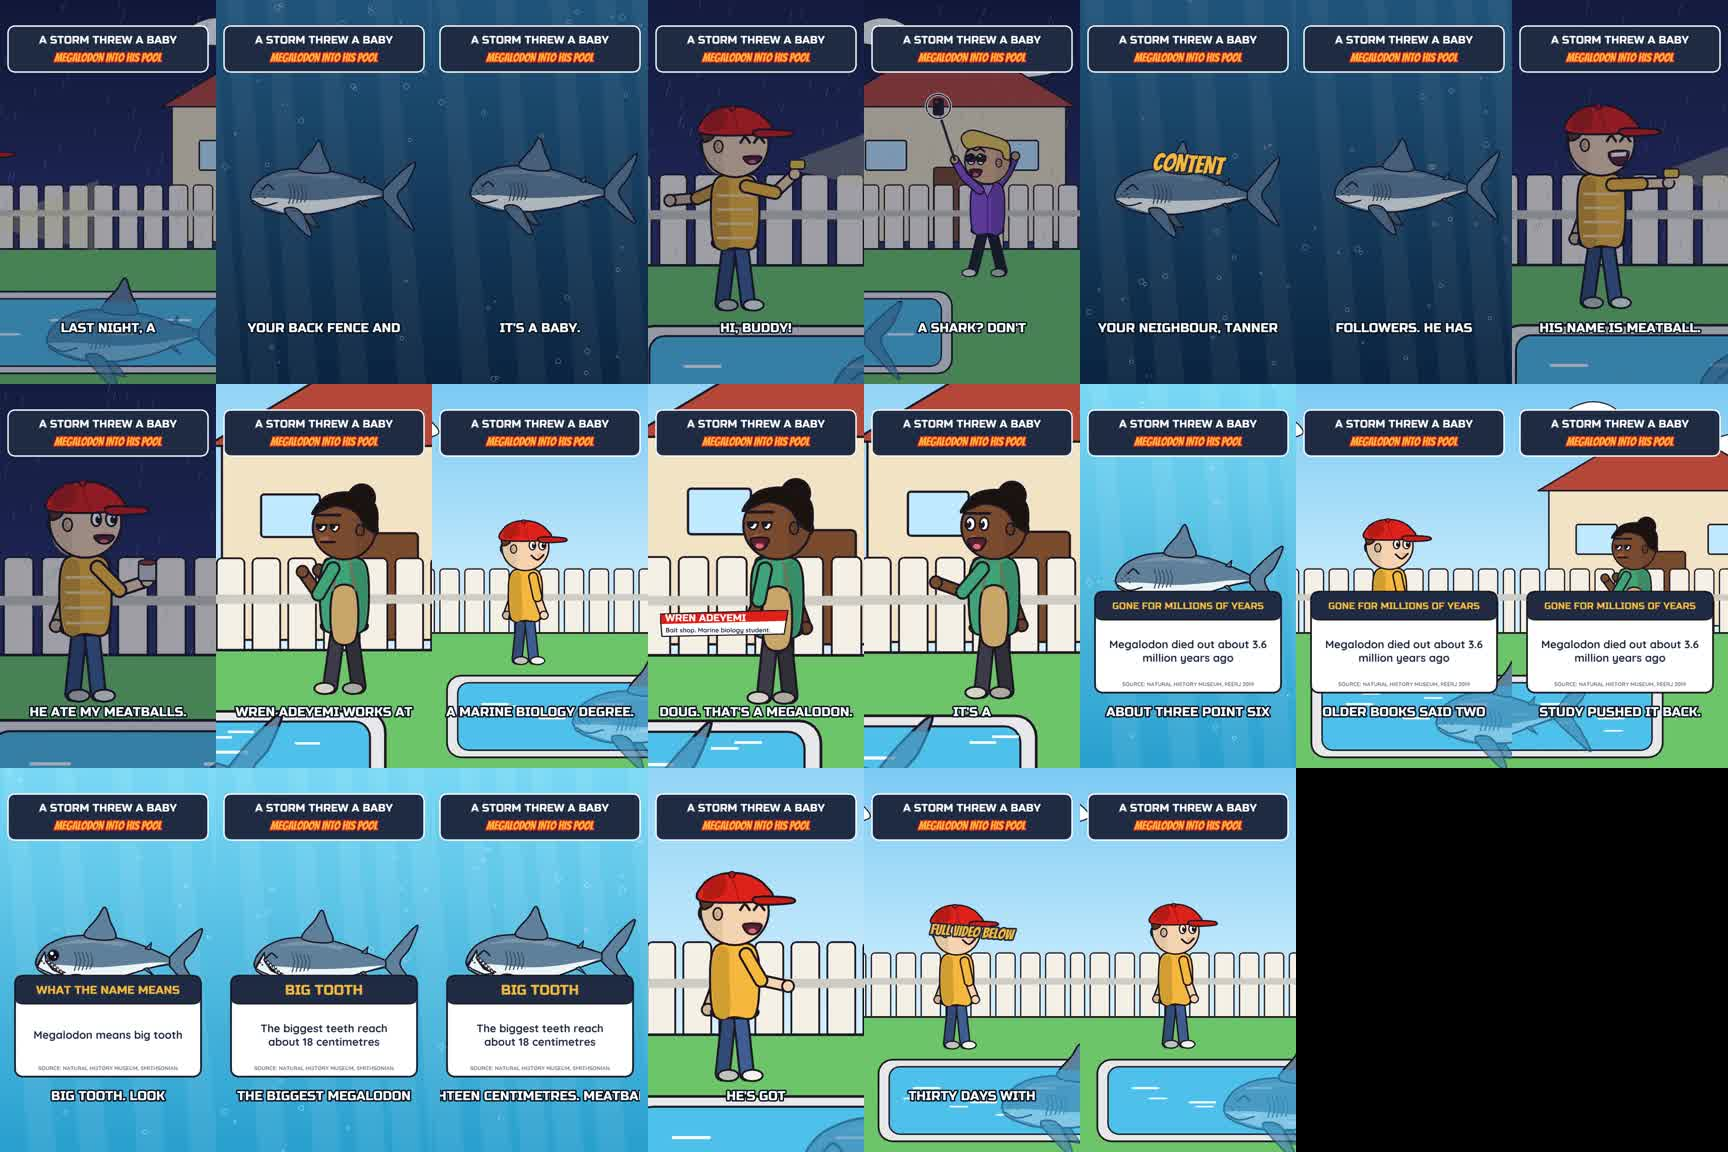
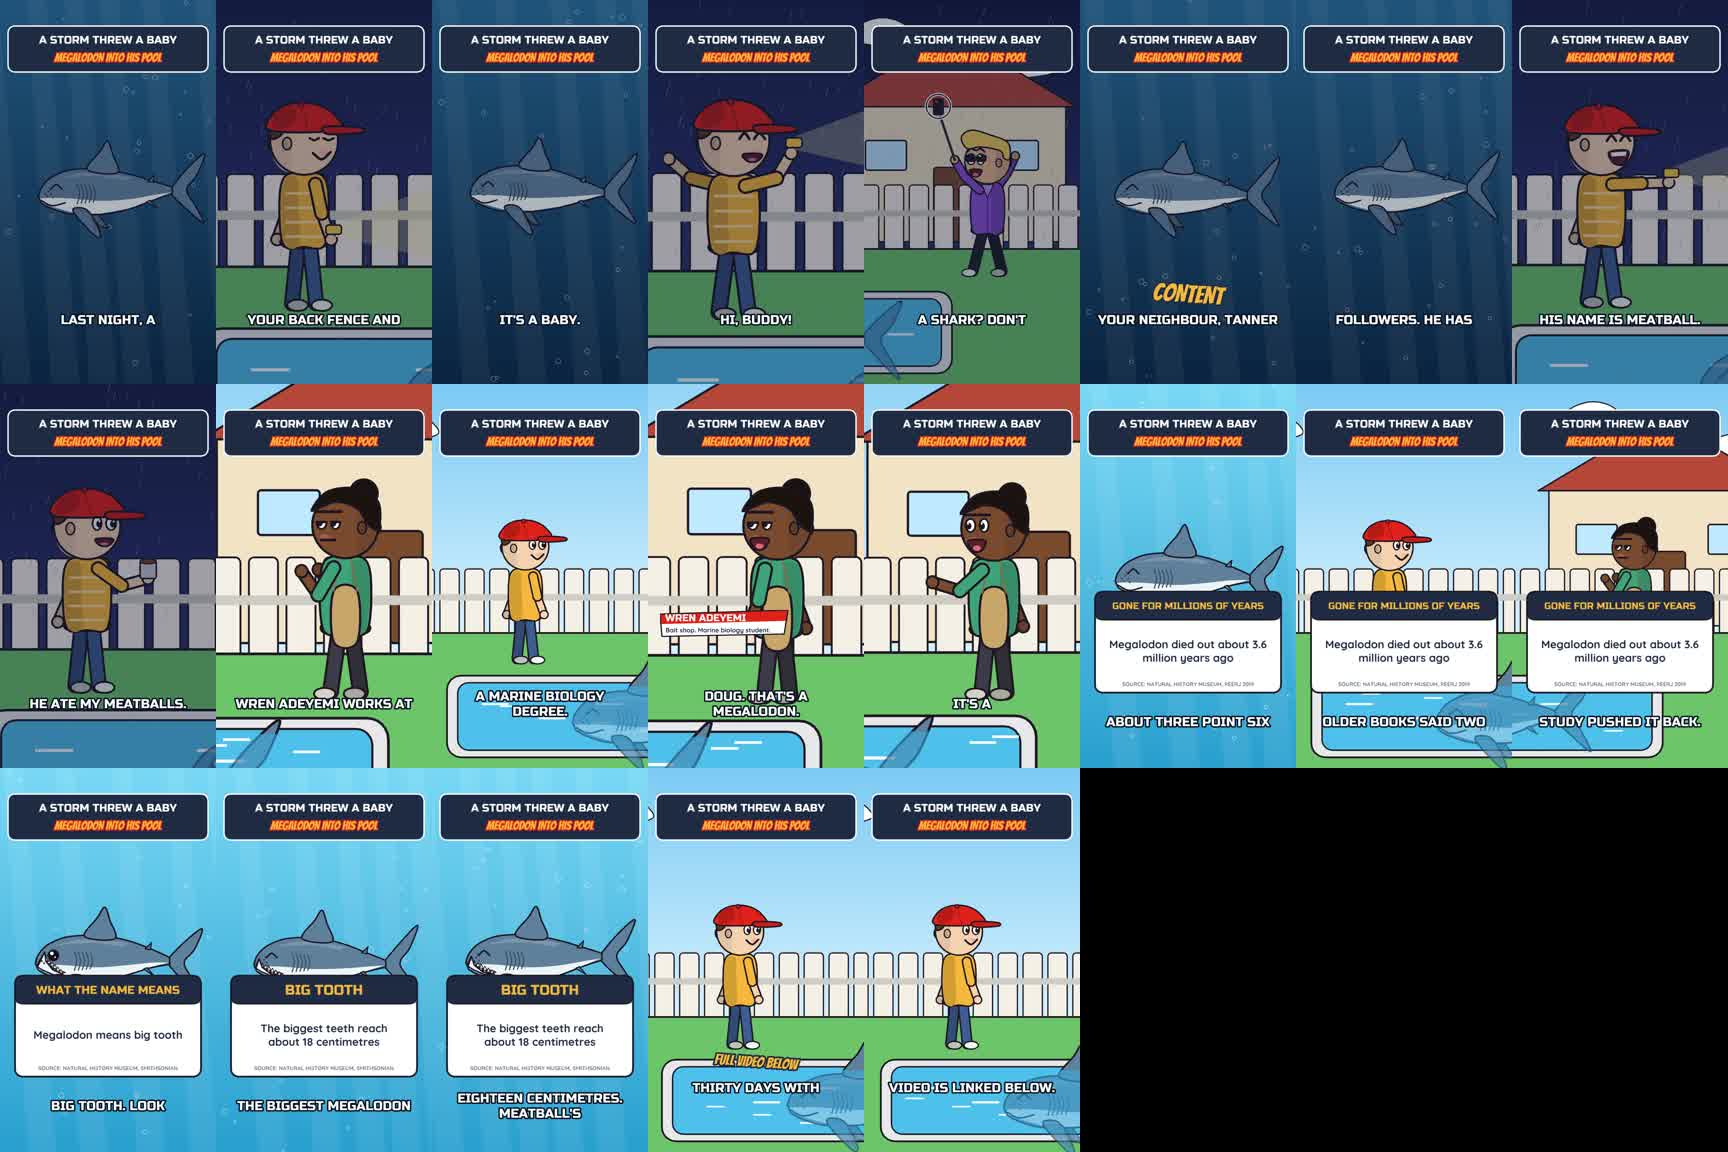
claude: Shorts fixes from review (captions clear of cards, trims and per-Short overrides), w01 Shorts uploaded via 059

diff --git a/studio/whatif_shorts.py b/studio/whatif_shorts.py
@@ -29,6 +29,26 @@ def _scene_blocks(text: str) -> tuple[str, dict]:
     return head, blocks
 
 
+def _trim(block: str, ref: str) -> str:
+    """'03' keeps the whole scene; '03:0-6' keeps spoken lines 0 to 6 (with their CARD, WORD and stage lines)."""
+    if ":" not in ref:
+        return block
+    a, b = [int(x) for x in ref.split(":")[1].split("-")]
+    out, idx, pending = [], -1, []
+    for ln in block.splitlines():
+        if ln.startswith("## SCENE"):
+            out.append(ln)
+            continue
+        if re.match(r"^[A-Z][A-Z0-9_]*\s*(\[[^\]]*\])?\s*:", ln) and not ln.startswith(("CARD:", "WORD:")):
+            idx += 1
+            if a <= idx <= b:
+                out += pending + [ln]
+            pending = []
+            continue
+        pending.append(ln)
+    return "\n".join(out) + "\n"
+
+
 def build(pdir: Path, only: list[str] | None = None):
     plan = json.loads((pdir / "shorts_plan.json").read_text(encoding="utf-8"))
     text = (pdir / "script.md").read_text(encoding="utf-8")
@@ -39,12 +59,12 @@ def build(pdir: Path, only: list[str] | None = None):
             continue
         d = pdir / "shorts" / sh["id"]
         d.mkdir(parents=True, exist_ok=True)
-        first, last = sh["scenes"][0], sh["scenes"][-1]
+        first, last = sh["scenes"][0].split(":")[0], sh["scenes"][-1].split(":")[0]
         set_of = lambda n: re.search(r"set:\s*([a-z0-9_]+)", blocks[n]).group(1)
         parts = [head.rstrip() + "\n\n"]
         if sh.get("hook"):
             parts.append(f"## SCENE 00 | set: {set_of(first)} | day: -\nNARRATOR: {sh['hook']}\n\n")
-        parts += [blocks[n] + "\n" for n in sh["scenes"]]
+        parts += [_trim(blocks[n.split(":")[0]], n) + "\n" for n in sh["scenes"]]
         parts.append(f"## SCENE 99 | set: {set_of(last)} | day: -\nNARRATOR: {sh['outro']}\n")
         (d / "script.md").write_text("".join(parts), encoding="utf-8")
         st = json.loads(json.dumps(staging))
@@ -56,6 +76,10 @@ def build(pdir: Path, only: list[str] | None = None):
         st["scenes"]["00"] = dict(base_first, lines={"0": {"shots": ["megclose", "wide"] if "meg" in base_first else ["wide"]}})
         st["scenes"]["99"] = dict(base_last, lines={"0": {"word": "FULL VIDEO BELOW", "shots": ["wide"]}})
         st["short"] = {"title": sh["title"]}
+        for scn, lines in (sh.get("overrides") or {}).items():   # per-Short shot choices (open on the hook image)
+            st["scenes"].setdefault(scn, {}).setdefault("lines", {})
+            for li, ov in lines.items():
+                st["scenes"][scn]["lines"].setdefault(li, {}).update(ov)
         (d / "staging.json").write_text(json.dumps(st, indent=1), encoding="utf-8")
         for f in ("voices.json", "cast_looks.json"):
             shutil.copy2(pdir / f, d / f)

diff --git a/studio/whatif.py b/studio/whatif.py
@@ -775,10 +775,15 @@ def draw_overlays(frame, spec, t_abs, ctx, ovc, state):
             n = max(1, math.ceil(len(words) / 4))
             k = min(n - 1, int((t_abs - line["start"]) / max(0.3, line["dur"]) * n))
             chunk = " ".join(words[k * len(words) // n:(k + 1) * len(words) // n]).upper()
+            dd = ImageDraw.Draw(Image.new("RGB", (10, 10)))
+            rows = _wrap(chunk, T.font(64, "RussoOne-Regular"), 900, dd)[:2]   # never wider than the frame
             def cap(p):
-                p.text(500, 70, chunk, 64, "#ffffff", "RussoOne-Regular", stroke=7, stroke_color="#0b1222")
-            img = _ov_sprite("cap_" + chunk, cap, 1000, 140, ovc)
-            T.paste(frame, img, (img.width / 2, img.height / 2), (W / 2, 1640))
+                for r_i, row in enumerate(rows):
+                    p.text(500, 70 + (r_i - (len(rows) - 1) / 2) * 76, row, 64, "#ffffff", "RussoOne-Regular",
+                           stroke=7, stroke_color="#0b1222")
+            img = _ov_sprite("cap_" + chunk, cap, 1000, 220, ovc)
+            card_now = state.get("card") and state["card"]["t1"] > t_abs >= state["card"]["t0"]
+            T.paste(frame, img, (img.width / 2, img.height / 2), (W / 2, 1730 if card_now else 1640))  # clear of the card
     # DAY badge
     day = spec.get("day")
     if short and vertical():
@@ -853,8 +858,9 @@ def draw_overlays(frame, spec, t_abs, ctx, ovc, state):
         wob = math.sin(tin * 18) * 2.5 * max(0, 1 - tin / 0.6)
         cyw = 860 if not state.get("card") or not (state["card"]["t1"] > t_abs >= state["card"]["t0"]) else 930
         cxw = 960 if cyw == 860 else 700
-        if vertical():
-            cxw, cyw = W / 2, 820
+        if vertical():   # keep kinetic words off faces: low band, or high band when a card is up
+            card_up = state.get("card") and state["card"]["t1"] > t_abs >= state["card"]["t0"]
+            cxw, cyw = W / 2, (480 if card_up else 1470)
         _paste_scaled(frame, img, cxw, cyw, (0.35 + 0.65 * sc) * (0.72 if vertical() else 1), rot=-4 + wob)
     # title drop
     tt = state.get("title")

diff --git a/pilots/w01-pet-megalodon/video_review.md b/pilots/w01-pet-megalodon/video_review.md
@@ -316,3 +316,92 @@ Nothing new broke in the frames checked. Cuts are 24.2 a minute, inside the 20 t
 ### Verdict
 
 **Ready for owner review, not ready to upload.** No scene is broken any more, and every story beat the narration names is now on screen. What remains is polish: cards covering Wren in five wide shots, the flashback sand layer, edge crops and one-angle backyard coverage. That polish keeps it at 3.5 rather than DOOMPERK's level, and it should be fixed in the same pass as any owner notes before upload.
+
+---
+
+## Shorts (2026-11-27)
+
+Three native 9:16 Shorts cut from w01. Judged from each short's `sheet.jpg` (one frame every 2.5 s), 4 full-size frames per short from `build/final.mp4`, each `script.md` and `build/lines.json`, and `shorts_plan.json`. All three are 1080x1920 (ffprobe), and run 54.3 s, 49.9 s and 54.9 s. Audio was not heard. Channel rule: a complete moment that ends on its payoff, never a cliffhanger, then points to the full video.
+
+| Criterion | short01 | short02 | short03 |
+|---|---|---|---|
+| Hook, first 2 s | 2.5 | 3 | 3 |
+| Readability at phone size | 3.5 | 3 | 3.5 |
+| Framing | 3.5 | 3.5 | 3.5 |
+| Payoff ending | 2.5 | 4 | 4.5 |
+| Title strength | 4 | 3.5 | 4.5 |
+| **Average** | **3.2** | **3.4** | **3.8** |
+| **Upload** | **NO-GO** | **NO-GO until fixed** | **GO** |
+
+All three get the basics right:
+- The two-line title band at the top reads at phone size.
+- Captions are bold white caps inside the safe area, and the science cards are readable.
+- Night scenes are graded dark.
+- Each short ends with a spoken pointer to the full video.
+
+### short01: "A Storm Threw a Baby MEGALODON Into His Pool" (scenes 01 and 03)
+
+- **Hook (2.5):** at 0.3 s the frame is a dark rainy yard with the shark faint in the pool, and Doug off the left edge (only his cap brim shows). No caption until about 1.5 s. The title band does all the work; nothing moves or surprises in the first 2 s.
+- **Readability (3.5):**
+  - The caption at about 47.5 s, "IHTEEN CENTIMETRES. MEATBA...", runs off both sides of the frame.
+  - The FULL VIDEO BELOW word sits on Doug's face at about 52 s.
+- **Framing (3.5):** the cast is fine apart from the 0.3 s opening.
+- **Payoff (2.5):** the strongest joke ("He ate my meatballs.", 20.5 s) lands at the 40% mark. The short then spends 25 s on science cards and ends on "He's got a lovely smile." (48.0 s), which is soft, not a payoff.
+- **Title (4):** clear, visual and searchable.
+- **Top fix:** recut to end on a payoff, for example storm, Tanner, "It's a type of extinct.", BIG TOOTH and "Meatball's are smaller. For now." over a grin close-up. Open on the shark close-up instead of the dark wide. Wrap the 47.5 s caption.
+
+### short02: "His Pet MEGALODON Ate a Watermelon in One Bite" (scenes 09 and 10)
+
+- **Hook (3):** the first frame is a calm underwater shark close-up with no caption (0.3 s). The spoken hook ("Your pet megalodon is nine days old. Your neighbour wants it on a livestream.") is good, but the watermelon does not appear until about 12 s.
+- **Readability (3):**
+  - The countdown caption at 13 s, "...NE WATERMELON. THREE, TW...", is cut off on both sides, on the most important line of the short.
+  - FULL VIDEO BELOW sits on Doug's face at 48.5 s.
+- **Framing (3.5):** Doug and Wren are cut at the side edges in the teeth scene (about 30 to 48 s).
+- **Payoff (4):** CRUNCH at about 15 s, then "He thought it was the moon.", then the teeth gag ends on a real punchline: "For the first time in his career, Tanner's advert is completely true." (43.0 s).
+- **Title (3.5):** clear, and it promises what is shown. It gives away the bite, so it relies on the visual. "Pet MEGALODON" echoes DOOMPERK's "PET Tornado", which the long-form packaging retired.
+- **Top fix:** cap caption width and wrap long lines (the 13 s line). Open on the watermelon at the shark's mouth, so the first frame shows the promise.
+
+### short03: "He Tried to Sell the MEGALODON. It Saved Him" (scenes 22 and 23)
+
+- **Hook (3):** the spoken hook is the best of the three ("Now he is lost at sea, at midnight."), but the first frame (0.3 s) is Doug and Wren calmly sitting in the kayak. Tanner or the fin is not on screen until about 7.5 s.
+- **Readability (3.5):** the FOUND HIM word sits across Doug's face at 48.2 s, on the climax line.
+- **Framing (3.5):** Tanner is cut at the top-right edge near the end (about 50 s). The tinted day 3 flashback (about 25 to 30 s) reads well.
+- **Payoff (4.5):** a complete rescue that ends on its punchline, "Am I the fish?" / "Not tonight." (49.4 to 51.4 s). It explains its own callback (tap tap) through the flashback, so it works without the long video.
+- **Title (4.5):** strong irony and curiosity, with one CAPS word.
+- **Top fix (not blocking):** move FOUND HIM to the empty water below the kayak. Open on Tanner splashing alone in the dark, with the fin passing behind him.
+
+### Shared fixes
+
+1. **Kinetic words land on faces in all three** (short01 about 52 s, short02 48.5 s, short03 48.2 s). Place words in empty space, away from every head box. This is the same rule as the long-form card fix.
+2. **Captions overflow the 1080 px width** (short01 about 47.5 s, short02 13 s). Wrap to two lines, or cut each caption chunk at about 22 characters.
+3. **The outros say "linked below".** On Shorts the reliable link is the related video setting, not the description, so set the related video to the full w01 upload.
+
+### Shorts re-render (2026-11-27)
+
+Re-scored from the regenerated sheets and 4 full-size frames (short01 45.2 s and 48.6 s, short02 16 s, short03 48.3 s). Durations: 52.3 s, 49.9 s and 54.9 s.
+
+| Criterion | short01 | short02 | short03 |
+|---|---|---|---|
+| Hook, first 2 s | 3 (was 2.5) | 4 (was 3) | 3 |
+| Readability at phone size | 3.5 | 3 | 4 (was 3.5) |
+| Framing | 4 (was 3.5) | 3.5 | 3.5 |
+| Payoff ending | 3.5 (was 2.5) | 4 | 4.5 |
+| Title strength | 4 | 3.5 | 4.5 |
+| **Average** | **3.6** (was 3.2) | **3.6** (was 3.4) | **3.9** (was 3.8) |
+| **Upload** | **NO-GO** (one fix) | **NO-GO** (one fix) | **GO** |
+
+What landed:
+- Captions now wrap inside the frame, with no side overflow anywhere.
+- Kinetic words sit clear of faces: FOUND HIM is below the kayak at 48.3 s, CRUNCH is above the card at 16 s, and FULL VIDEO BELOW is above the caption at 48.6 s.
+- short01 opens on the shark and now ends on "Meatball's are smaller. For now." over the toothy grin (42.7 to 47.8 s). That is a real payoff.
+- short02 opens with the watermelon already at the shark's mouth, so the title's promise is in frame 1.
+
+New problem: **two-line captions collide with science cards.** When a caption wraps to two lines while a card is up, its first line slides under the card's bottom edge:
+- short02 at about 15 to 17 s: "THE ADULT MEGALODON / BITE", where the top line is half hidden.
+- short01 at about 45 to 47 s: "EIGHTEEN CENTIMETRES. / MEATBALL'S", where the top line is clipped on the payoff line itself.
+
+short03 has no two-line caption under a card, so it is clear.
+
+Top fix per Short:
+- **short01 and short02 (blocking):** when a card is up, anchor the caption by its first line just below the card (about y 1480) and let the second line grow downward, or shift the card up by one caption line. Re-check 15 to 17 s (short02) and 45 to 47 s (short01). Both become GO once this is clean.
+- **short03 (not blocking):** open on Tanner splashing alone with the fin passing behind him, instead of the calm kayak shot.

diff --git a/pilots/w01-pet-megalodon/shorts/short01/script.md b/pilots/w01-pet-megalodon/shorts/short01/script.md
@@ -80,7 +80,6 @@ CARD: WHAT THE NAME MEANS | Megalodon means big tooth | SOURCE: Natural History 
 WREN: The name means big tooth. Look at that jaw.
 CARD: BIG TOOTH | The biggest teeth reach about 18 centimetres | SOURCE: Natural History Museum, Smithsonian
 NARRATOR: The biggest megalodon teeth reach about eighteen centimetres. Meatball's are smaller. For now.
-DOUG [fond]: He's got a lovely smile.
 
 ## SCENE 99 | set: backyard_pool | day: -
 NARRATOR: Thirty days with Meatball. The full video is linked below.
